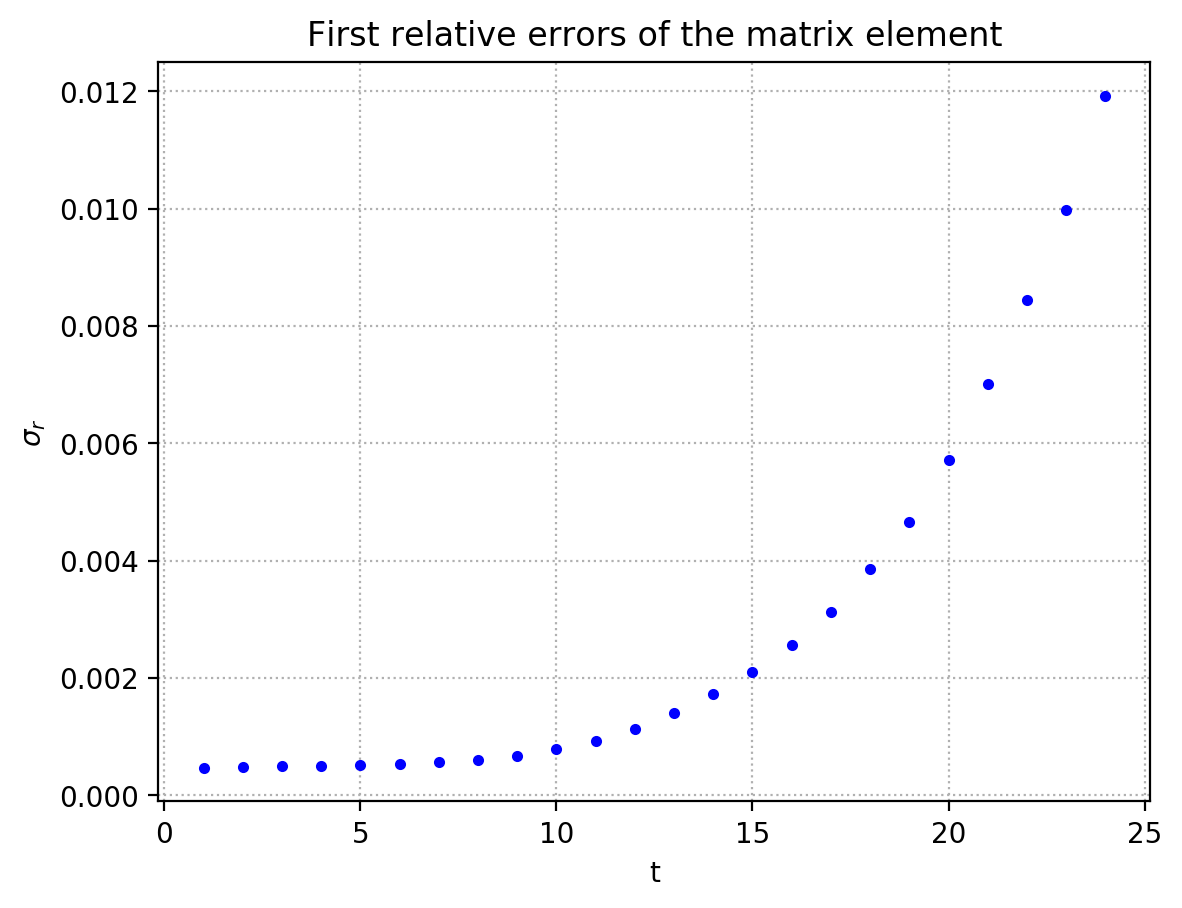
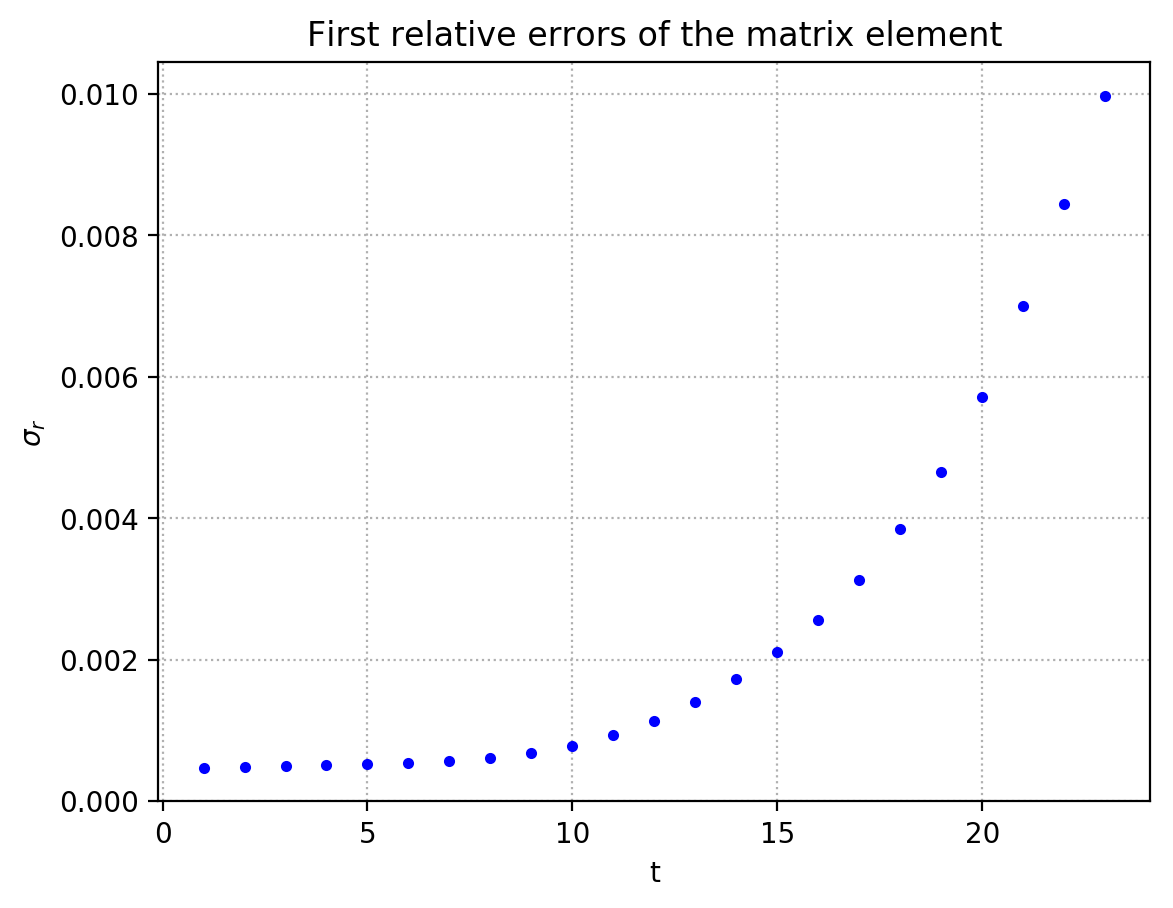
Commit 28/08

diff --git a/fit/total_fit.py b/fit/total_fit.py
@@ -42,7 +42,7 @@ for i in range(len(a)):
 print('\n')
 print("\tParameters: ", best)
 print("\tError of the parameters: ", np.sqrt(np.diag(covar)))
-print("t-factor for the parameters: ",
+print("\tt-factor for the parameters: ",
       np.fabs((best - [1., -1/24, 3/640])/np.sqrt(np.diag(covar))))
 
 print("\tReduced chi-square = %f" % chi)
@@ -72,7 +72,7 @@ print('\n')
 print("\tParameters: ", best)
 print("\tErrors of the parameters: ", np.sqrt(np.diag(covar)))
 print("\tCovariance: ", covar)
-print("t-factor for the parameters: ",
+print("\tt-factor for the parameters: ",
       np.fabs((best - [1/np.sqrt(2), -np.sqrt(2)/32, 5*np.sqrt(2)/1024])/np.sqrt(np.diag(covar))))
 print("\tReduced chi-square = %f" % chi)
 print("\tCHI^2 / ndf = %f / %f" % (chi*d, d))

diff --git a/fit/single_fit.py b/fit/single_fit.py
@@ -82,7 +82,7 @@ t, mel, err = np.genfromtxt(file_mel,
 # I consider only the values with a relative error lower than a threshold
 counter = 0
 for j in range(len(mel)):
-    if(err[j]/mel[j] < 0.0125):
+    if(err[j]/mel[j] < 0.01):
         counter += 1
 # The values are symmetric, so the final result must be divided by 2
 counter = int(counter/2)
